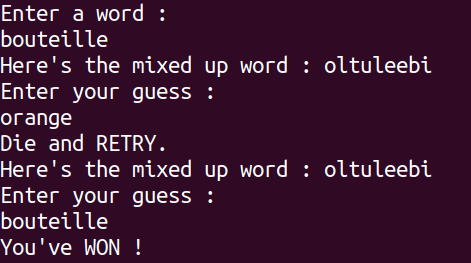
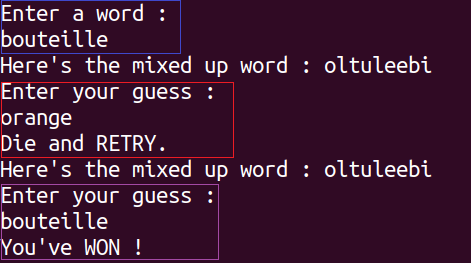
Documenting project

diff --git a/README.md b/README.md
@@ -1,11 +1,13 @@
 # Mystery Word in CPP
 Ce projet est réalisé dans le cadre d'un cours OpenClassrooms.  
-Le but étant de faire deviner à l'utilisateur un mot dont les lettres ont été mélangées aléatoirement _(pour le moment, un autre joueur doit entrer le mot mystère)_.
+Le but étant de faire deviner à l'utilisateur un mot dont les lettres ont été mélangées aléatoirement _(pour le moment, un autre joueur doit entrer le mot mystère)_ en passant par le terminal.
 ## Déroulement du jeu
-1. Le __Joueur1__ doit saisir un mot
-1. On affiche le mot mélangé au **Joueur2** afin qu'il devine le mot initial  
+1. Le __Joueur1__ doit saisir un mot (cf carré bleu)
+1. On affiche le mot mélangé au **Joueur2** afin qu'il devine le mot initial (cf carré rouge et violet)
 
-Le jeu s'arrête quand le **Joueur2** à deviné le mot entré par le **Joueur1**.
+Le jeu s'arrête quand le **Joueur2** à deviné le mot entré par le **Joueur1**. (cf carré violet)
+
+![Le jeu](./Ressources/allTheGame.png)
 
 ## TODO
 ### Jeu  
